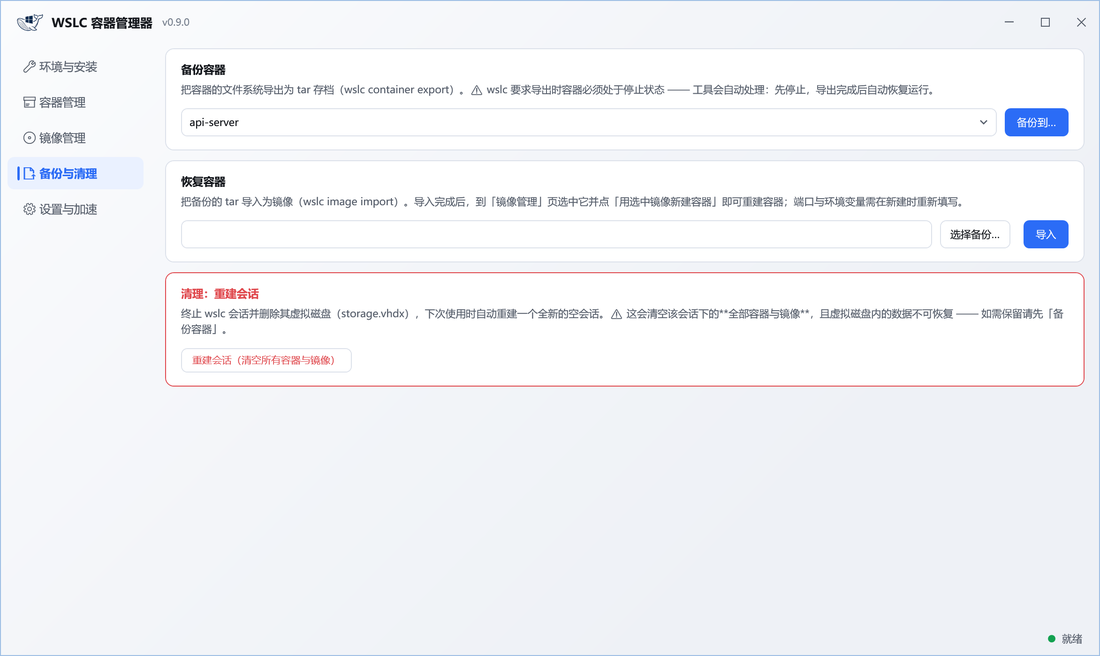
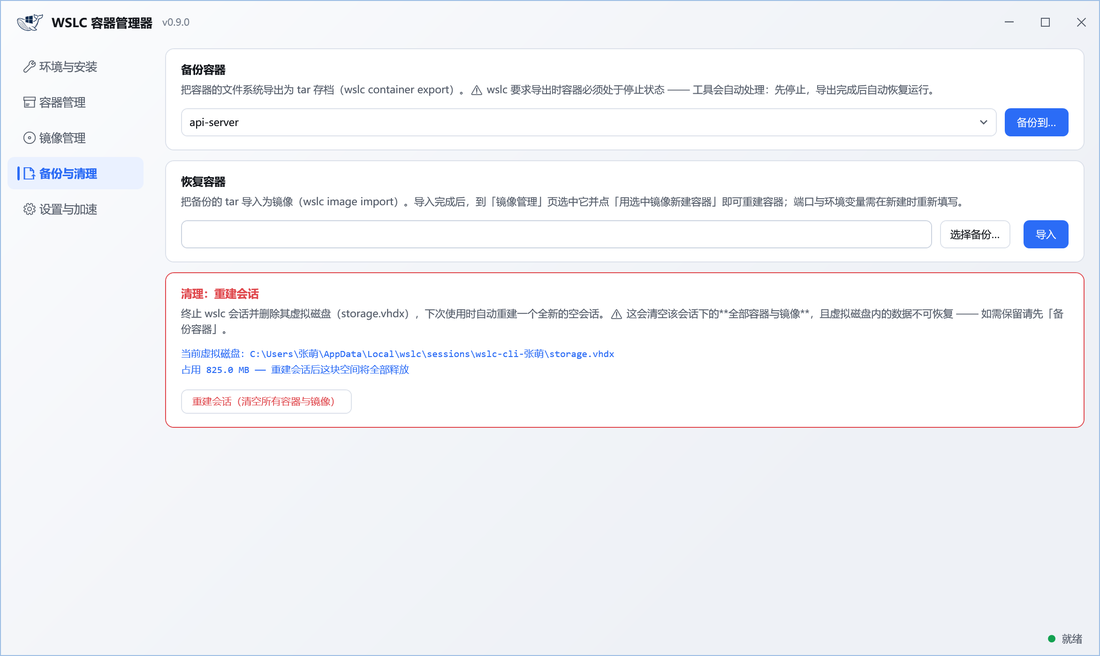
fix: 清理页显示虚拟磁盘占用 + 修复卡死与 vhdx 选择溢出
- 清理-重建会话卡片自动显示当前虚拟磁盘路径与占用大小（进入页面/
  重建完成后自动刷新），确认框同步带上「重建后将释放 X MB」
- ⚠ 修复应用卡死：RefreshSessionDiskInfo / OnRebuildSessionClick /
  OnCompactDiskClick 在 UI 线程直接调 FindStorageVhdx -> GetStorageDir，
  首次会同步跑 wslc info（最长 20s 超时）导致界面冻结 —— 全部改为
  Task.Run 后台执行（这是 GetStorageDir 缓存修复后残留的首次调用卡点）
- ⚠ 修复 vhdx 误选：FindStorageVhdx 用「长度 + long.MaxValue」给
  storage.vhdx 加优先分，结果整数溢出为负，36MB 的 swap.vhdx 反而
  赢了 825MB 的 storage.vhdx —— 改为先按名称找 storage、找不到再取
  最大文件

Changed region(s): [[0.1545, 0.5183, 0.5564, 0.6402], [0.9582, 0.5793, 0.9891, 0.6098]]

diff --git a/MainWindow.xaml b/MainWindow.xaml
@@ -879,6 +879,10 @@
                                     <TextBlock FontSize="12.5" TextWrapping="Wrap" Margin="0,0,0,12" LineHeight="19"
                                                Foreground="{DynamicResource SubTextBrush}"
                                                Text="终止 wslc 会话并删除其虚拟磁盘（storage.vhdx），下次使用时自动重建一个全新的空会话。⚠ 这会清空该会话下的**全部容器与镜像**，且虚拟磁盘内的数据不可恢复 —— 如需保留请先「备份容器」。"/>
+                                    <TextBlock x:Name="TxtSessionDisk" FontSize="12" Margin="0,0,0,12"
+                                               TextWrapping="Wrap" LineHeight="19"
+                                               FontFamily="Consolas, Microsoft YaHei UI"
+                                               Foreground="{DynamicResource InfoBrush}"/>
                                     <StackPanel Orientation="Horizontal">
                                         <Button Style="{StaticResource RowDangerButton}" Padding="14,7"
                                                 Content="重建会话（清空所有容器与镜像）" Click="OnRebuildSessionClick"/>

diff --git a/MainWindow.xaml.cs b/MainWindow.xaml.cs
@@ -207,7 +207,7 @@ public partial class MainWindow : Window
         Ui(() => TxtStatus.Text = "就绪");
 
         // 若正停在备份页，把演示容器同步进下拉（页面切换只在进入时刷新一次）
-        if (NavBackup.IsChecked == true) RefreshBackupContainers();
+        if (NavBackup.IsChecked == true) { RefreshBackupContainers(); RefreshSessionDiskInfo(); }
     }
 
     /// <summary>--fill-demo：往镜像页两个输入框填演示文本，便于截图核对排版（对齐 / 内边距）。</summary>
@@ -289,6 +289,7 @@ public partial class MainWindow : Window
         sb.AppendLine();
         sb.AppendLine("== 文字渲染 ==");
         sb.AppendLine("  " + TextQuality.Describe(this));
+        sb.AppendLine($"  [调试] TxtSessionDisk 文本 = \"{TxtSessionDisk?.Text}\"  可见性={TxtSessionDisk?.Visibility}");
         var realMode = TextOptions.GetTextFormattingMode(this);
         var realAa = TextOptions.GetTextRenderingMode(this);
         sb.AppendLine($"  实际生效 TextFormattingMode={realMode}  TextRenderingMode={realAa}");
@@ -794,7 +795,7 @@ public partial class MainWindow : Window
         PanelSettings.Visibility = NavSettings.IsChecked == true ? Visibility.Visible : Visibility.Collapsed;
         PanelBackup.Visibility = NavBackup.IsChecked == true ? Visibility.Visible : Visibility.Collapsed;
 
-        if (NavBackup.IsChecked == true) RefreshBackupContainers();
+        if (NavBackup.IsChecked == true) { RefreshBackupContainers(); RefreshSessionDiskInfo(); }
 
         if (NavContainer.IsChecked == true)
         {
@@ -1652,7 +1653,8 @@ public partial class MainWindow : Window
     /// </summary>
     private async void OnCompactDiskClick(object sender, RoutedEventArgs e)
     {
-        var vhdx = WSLCManager.Helpers.DiskCompactor.FindStorageVhdx();
+        var vhdx = await System.Threading.Tasks.Task.Run(
+            () => WSLCManager.Helpers.DiskCompactor.FindStorageVhdx());
         if (vhdx == null) { SetStatus("未找到 wslc 会话的虚拟磁盘", "WarnBrush"); return; }
 
         var before = WSLCManager.Helpers.DiskCompactor.GetVhdxBytes(vhdx);
@@ -1722,6 +1724,32 @@ public partial class MainWindow : Window
             CmbBackupContainer.SelectedItem = old;
         else if (CmbBackupContainer.Items.Count > 0)
             CmbBackupContainer.SelectedIndex = 0;
+    }
+
+    /// <summary>刷新「当前虚拟磁盘占用」显示（重建会话能腾出多少空间，一目了然）。</summary>
+    private void RefreshSessionDiskInfo()
+    {
+        if (TxtSessionDisk == null) return;
+        // ⚠ FindStorageVhdx → GetStorageDir 首次会同步跑 wslc info（最长 20s 超时），
+        // 绝不能在 UI 线程直接调 —— 会卡死界面（2026-10-10 二次踩同一坑，截图/测试全被拖死）。
+        TxtSessionDisk.Text = "正在读取虚拟磁盘信息…";
+        System.Threading.Tasks.Task.Run(() =>
+        {
+            try
+            {
+                var vhdx = WSLCManager.Helpers.DiskCompactor.FindStorageVhdx();
+                if (vhdx == null) return "当前虚拟磁盘：未找到（会话可能尚未初始化）";
+                var bytes = WSLCManager.Helpers.DiskCompactor.GetVhdxBytes(vhdx);
+                return bytes >= 0
+                    ? $"当前虚拟磁盘：{vhdx}\n占用 {bytes / 1048576.0:N1} MB —— 重建会话后这块空间将全部释放"
+                    : $"当前虚拟磁盘：{vhdx}";
+            }
+            catch (Exception ex) { return "读取虚拟磁盘信息失败：" + ex.Message; }
+        })
+        .ContinueWith(t =>
+        {
+            if (TxtSessionDisk != null) TxtSessionDisk.Text = t.Result;
+        }, System.Threading.Tasks.TaskScheduler.FromCurrentSynchronizationContext());
     }
 
     /// <summary>备份：把选中容器导出为 tar 存档（wslc container export -o）。</summary>
@@ -1843,18 +1871,29 @@ public partial class MainWindow : Window
     /// </summary>
     private async void OnRebuildSessionClick(object sender, RoutedEventArgs e)
     {
+        // 查 vhdx 会触发 GetStorageDir（可能同步跑 wslc info），放后台
+        var (vhdx, diskBytes) = await System.Threading.Tasks.Task.Run(() =>
+        {
+            var v = WSLCManager.Helpers.DiskCompactor.FindStorageVhdx();
+            return (v, v == null ? -1 : WSLCManager.Helpers.DiskCompactor.GetVhdxBytes(v));
+        });
+        var diskLine = diskBytes >= 0
+            ? $"\n重建后将释放虚拟磁盘占用：{diskBytes / 1048576.0:N1} MB\n"
+            : "";
+
         var msg = "将终止 wslc 会话并删除其虚拟磁盘（storage.vhdx），\n" +
                   "下次使用时自动重建一个全新的空会话。\n\n" +
                   $"当前会话下有 {_containers.Count} 个容器、{_images.Count} 个镜像，**全部会被清空**。\n" +
-                  "虚拟磁盘内的数据删除后不可恢复 —— 如需保留请先「备份容器」。\n\n" +
-                  "确定重建吗？";
+                  "虚拟磁盘内的数据删除后不可恢复 —— 如需保留请先「备份容器」。\n" +
+                  diskLine +
+                  "\n确定重建吗？";
         if (!AppDialog.Confirm(this, "重建会话", msg, okText: "重建", danger: true)) return;
         if (_busy) { SetStatus("已有任务在执行，请稍候", "WarnBrush"); return; }
 
         SetBusy(true, "正在重建会话…");
 
         // 1) 查会话 ID（表格第一列）
-        var lst = WslcService.ListSessions();
+        var lst = await System.Threading.Tasks.Task.Run(() => WslcService.ListSessions());
         var sessionId = TableParser.Lines(lst.All)
             .Select(l => l.Trim())
             .Where(l => l.Length > 0 && char.IsDigit(l[0]))
@@ -1898,6 +1937,7 @@ public partial class MainWindow : Window
         await RefreshContainersAsync(silent: true);
         await RefreshImagesAsync(silent: true);
         RefreshBackupContainers();
+        RefreshSessionDiskInfo();   // 重建后 vhdx 是全新的，刷新占用显示
 
         SetBusy(false);
         SetStatus("会话已重建（全部容器与镜像已清空）", "OkBrush");

diff --git a/Helpers/DiskCompactor.cs b/Helpers/DiskCompactor.cs
@@ -34,16 +34,23 @@ public static class DiskCompactor
 
         string best = null;
         long bestSize = -1;
+        FileInfo storageFi = null;
+        var candidates = new List<FileInfo>();
         foreach (var f in Directory.EnumerateFiles(dir, "*.vhdx", SearchOption.AllDirectories))
         {
-            try
-            {
-                var fi = new FileInfo(f);
-                // storage.vhdx 优先（swap.vhdx 一般不需要压）
-                var score = fi.Name.StartsWith("storage", StringComparison.OrdinalIgnoreCase) ? fi.Length + long.MaxValue : fi.Length;
-                if (score > bestSize) { bestSize = score; best = f; }
-            }
-            catch { }
+            try { candidates.Add(new FileInfo(f)); } catch { }
+        }
+
+        // storage.vhdx 优先（swap.vhdx 不需要压）。
+        // ⚠ 之前的写法 `length + long.MaxValue` 当优先加分时整数溢出为负，
+        //   反而让 36MB 的 swap 赢了 825MB 的 storage —— 已改成两段式选择。
+        storageFi = candidates.FirstOrDefault(f =>
+            f.Name.StartsWith("storage", StringComparison.OrdinalIgnoreCase));
+        if (storageFi != null) return storageFi.FullName;
+
+        foreach (var fi in candidates)
+        {
+            if (fi.Length > bestSize) { bestSize = fi.Length; best = fi.FullName; }
         }
         return best;
     }
